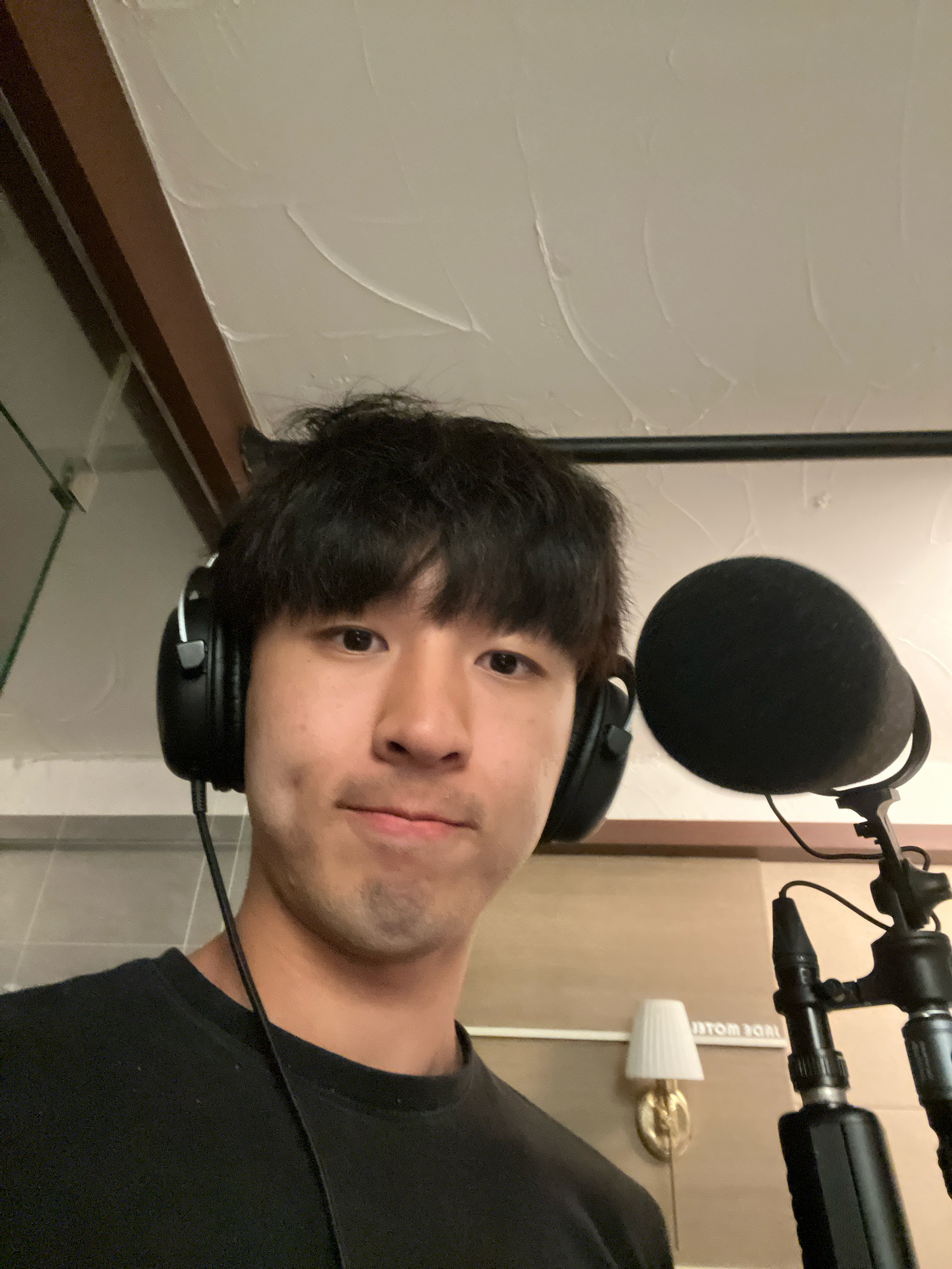
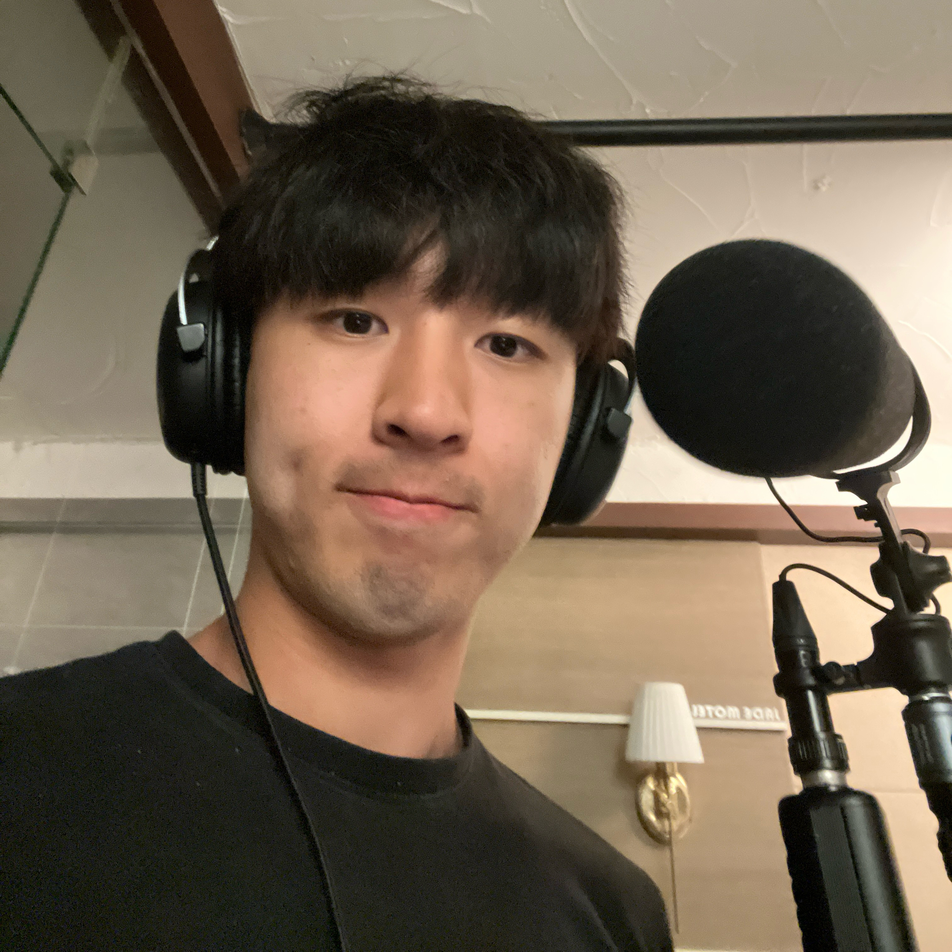
image final

diff --git a/about/index.html b/about/index.html
@@ -1109,7 +1109,7 @@
                 </div>
 
                 <div class="team-card">
-                  <img src="/images/team/junwon.png" alt="황준원">
+                  <img src="/images/team/junwon.jpg" alt="황준원">
                   <div class="team-overlay">
                     <div class="team-name">황준원</div>
                     <div class="team-role">Recording Engineer</div>
